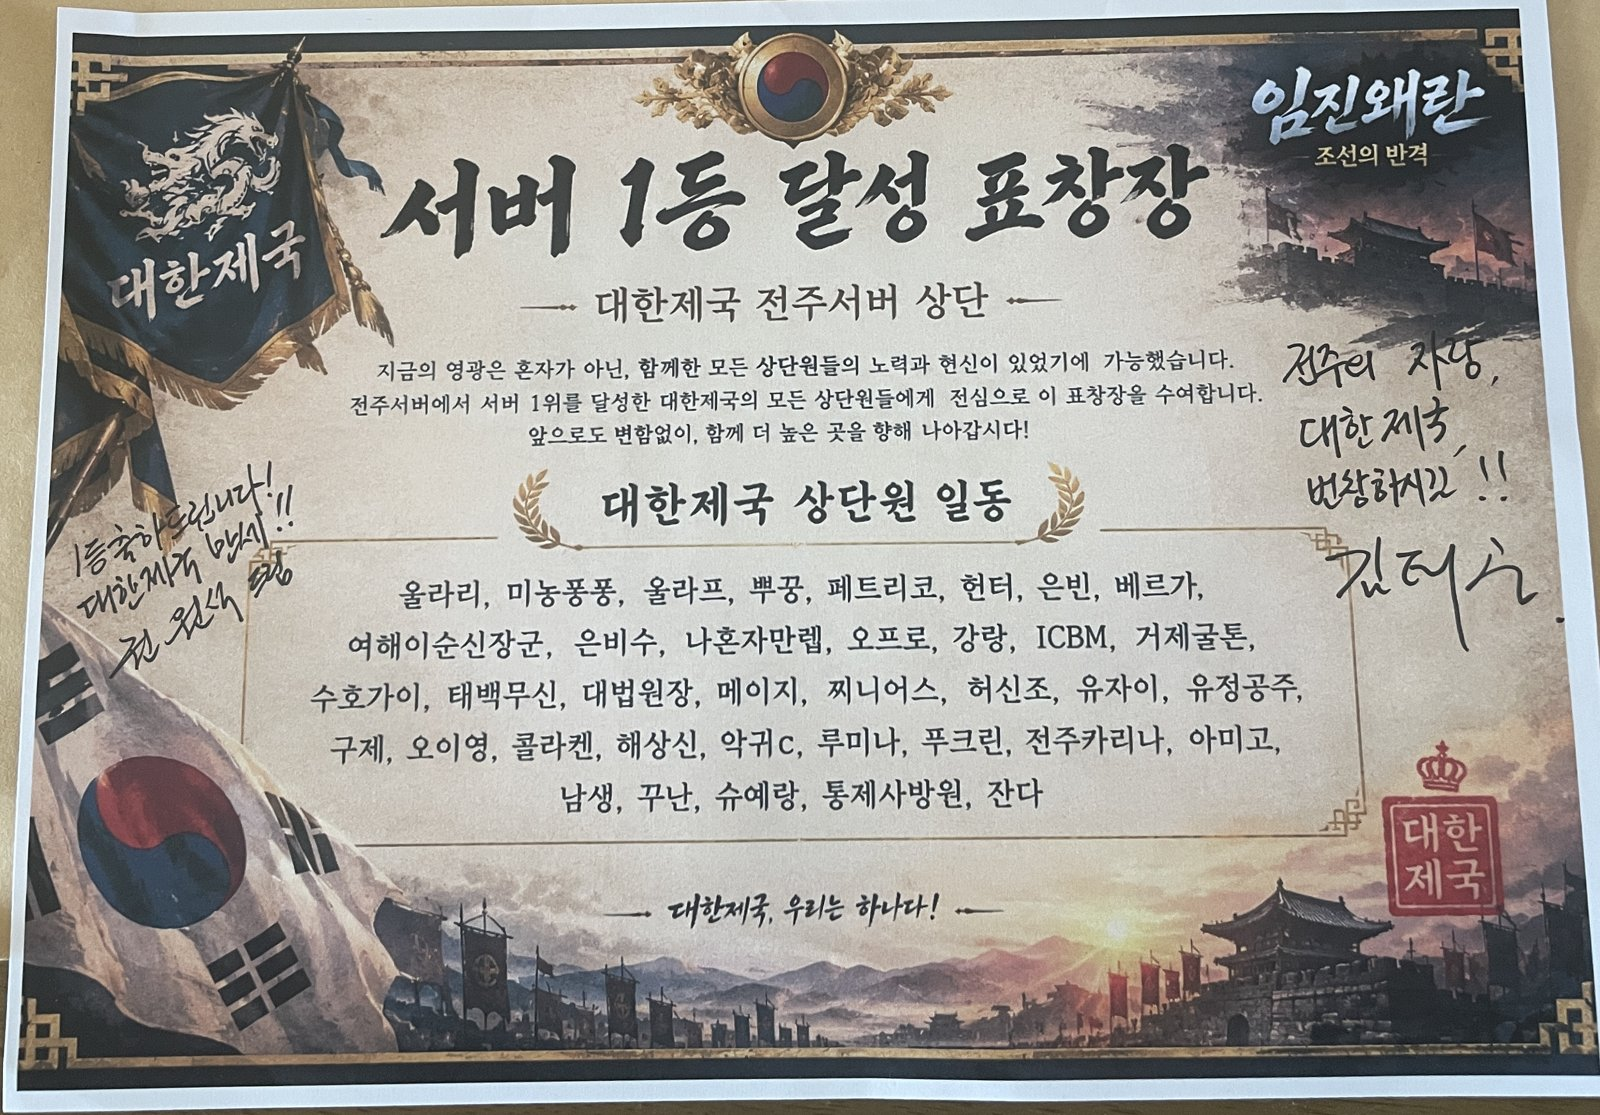
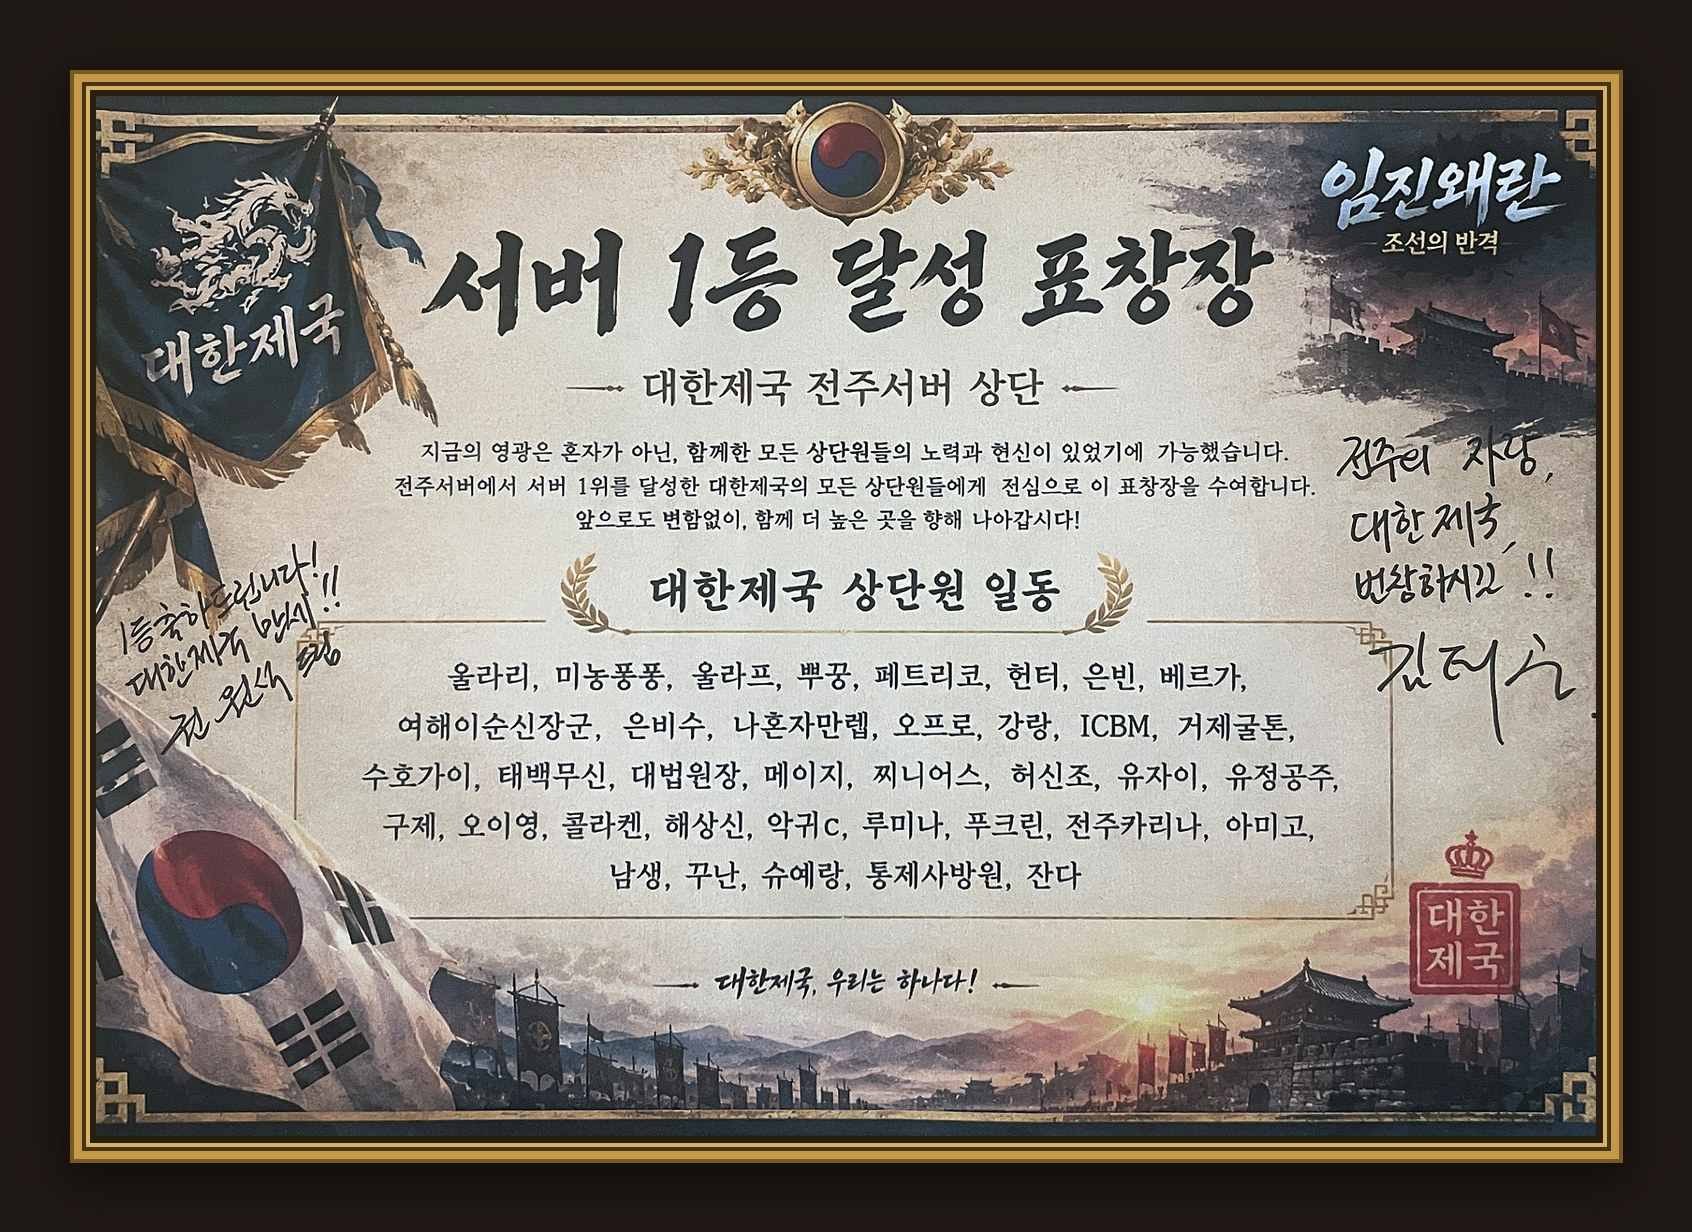
임진왜란 상단: 표창장 사진을 원근 보정·여백 정리·액자 테두리로 다시 편집

diff --git a/src/i18n/imjin.ts b/src/i18n/imjin.ts
@@ -130,7 +130,7 @@ export const awards: { date: string; title: string; body: string; img: string; c
     title: '전주 서버 1위 달성 — 서버 1등 달성 표창장',
     body: '대한제국이 전주 서버 1위를 달성해 개발사(레드징코게임즈)로부터 받은 표창장. "지금의 영광은 혼자가 아닌, 함께한 모든 상단원들의 노력과 헌신이 있었기에 가능했습니다." 표창장에는 상단원 37명의 이름이 함께 새겨져 있습니다.',
     img: '/imjin/daehan/award-server1.jpg',
-    credit: '표창장 실물 사진, 2026-10-08 촬영',
+    credit: '표창장 실물 사진(2026-10-08 촬영)을 반듯하게 펴 액자 테두리를 씌움',
   },
 ];
 
